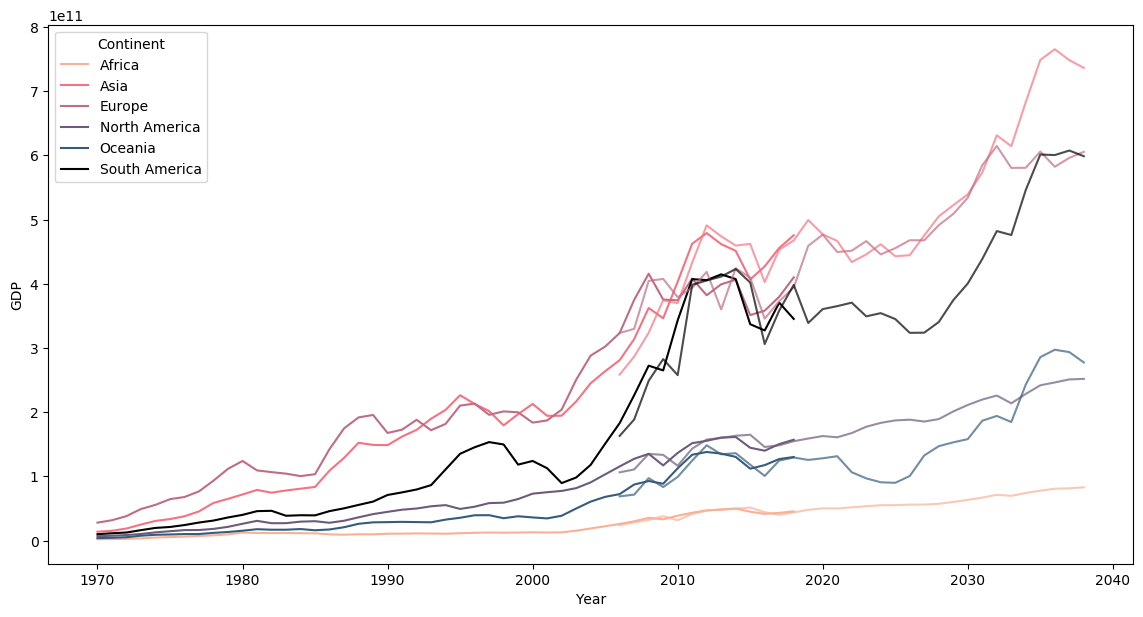
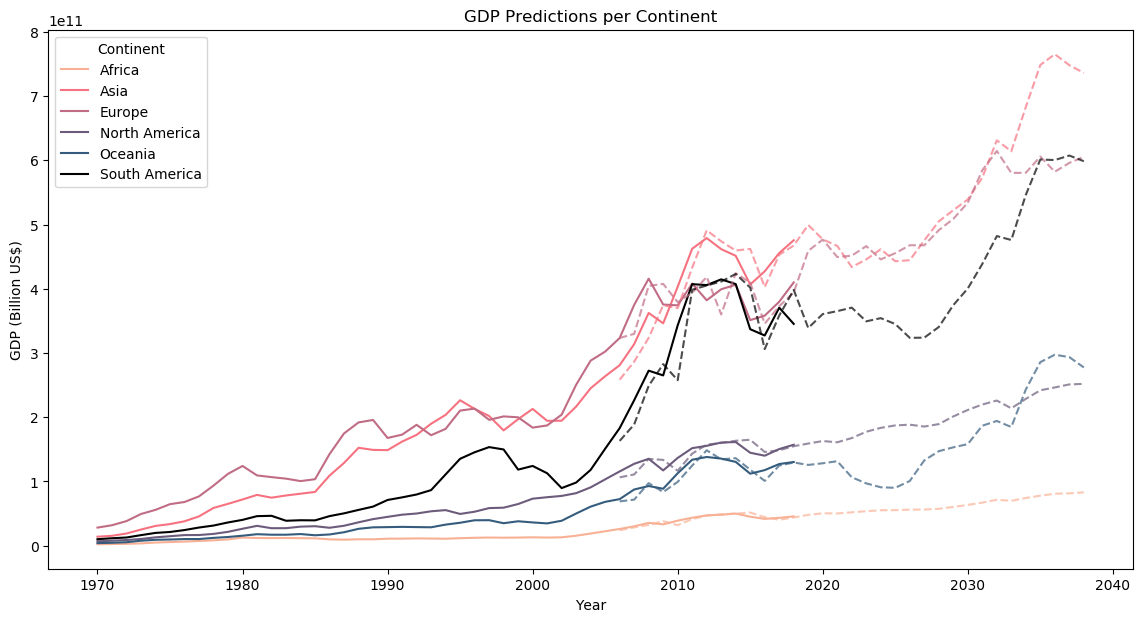
add predictions for disasters

diff --git a/predictions/predictions.py b/predictions/predictions.py
@@ -1,30 +1,27 @@
 import pandas as pd
-import matplotlib.pyplot as plt
 import statsmodels.api as sm
-import numpy as np
 import os, sys
 sys.path.append(os.path.dirname(os.path.dirname(os.path.abspath(__file__))))
-from utils import colors_pastel, colors_blue
+from visualizations.graphs import plot_prediction_line_graph, stacked_bar_graph_prediction
 
-def autoregressive_integrated_moving_average(data, xlabel, ylabel, filename = 'predictions.png', title='Title'):
+def autoregressive_integrated_moving_average(data, steps=20, seasonal_order = None):
     '''this method plots predictions for a dataframe with years as columns and countries or continents as rows
     input: pandas dataframe
-    xlabel, ylabel: str axis labels
-    optional filename: str
-    saves figure
-    returns None'''
+    returns dataframe with predictions'''
     assert (isinstance(data, pd.DataFrame))
-    assert(isinstance(xlabel, str) and isinstance(ylabel, str) and isinstance(filename, str) and isinstance(title, str))
     preds = []
     data.index.name = 'Year'
     start_year = int(min(list(data.index)))
     for column_name in data:
         #prediction
-        mod = sm.tsa.statespace.SARIMAX(data[column_name], order=(1, 1, 1), seasonal_order=(1, 1, 0, 12), enforce_stationarity=False, enforce_invertibility=False)
+        if seasonal_order != None:
+            mod = sm.tsa.statespace.SARIMAX(data[column_name], order=(1, 1, 1), seasonal_order=seasonal_order, enforce_stationarity=False, enforce_invertibility=False)
+        else:
+            mod = sm.tsa.statespace.SARIMAX(data[column_name], order=(1, 1, 1), enforce_stationarity=False, enforce_invertibility=False)
         results = mod.fit()
         start = int(len(data)/4) * 3 #start predicting after 3/4 of the data
         pred = results.get_prediction(start=start, dynamic=False)
-        forecast = results.get_forecast(steps=20).predicted_mean
+        forecast = results.get_forecast(steps=steps).predicted_mean
         pred = pred.predicted_mean.append(forecast)
 
         #format predictions for plotting
@@ -43,29 +40,23 @@ def autoregressive_integrated_moving_average(data, xlabel, ylabel, filename = 'p
     data.index = data.index + start_year
     pred_df = pred_df.reset_index()
     pred_df.index = pred_df.index + start_year + start
-
-    #set up the plot
-    ax = data.plot(label='Observed', color=colors_pastel)
-    pred_df.plot(ax = ax, label='Forecast', alpha=.7, figsize=(14, 7), color=colors_pastel, legend=False, linestyle='--')
-    ax.set_xlabel(xlabel)
-    ax.set_ylabel(ylabel)
-    plt.title(title)
-    plt.savefig(filename, bbox_inches='tight')
-
-
-def stacked_bar_graph_prediction(data, filename="stacked_bar_graph.png", title='title', ylabel="Amount"):
-    assert(isinstance(data, pd.DataFrame))
-    assert(isinstance(filename, str) and isinstance(title, str))
-
-    ax =  data.plot(kind='bar', stacked=True, color=colors_pastel, rot=70, title=title)
-    ax.set_ylabel(ylabel)
-    plt.savefig(filename, bbox_inches='tight')
+    return data, pred_df
 
 
 if __name__ == "__main__":
-    #csv = pd.read_csv('./visualizations/test/avg_gdp_continents.csv', index_col=0)
-    #autoregressive_integrated_moving_average(csv.T, 'Year', 'GDP (Billion US$)', 'predictions.png', 'GDP Predictions per Continent')
-
+    csv = pd.read_csv('./visualizations/test/avg_gdp_continents.csv', index_col=0)
+    data, pred_df = autoregressive_integrated_moving_average(csv.T, steps = 20, seasonal_order=(1, 1, 0, 12))
+    plot_prediction_line_graph(data, pred_df, 'Year', 'GDP (Billion US$)', 'GDP Predictions per Continent', 'predictions.png')
     csv = pd.read_csv('./data/environmental/cleaned_data/cleaned_number-of-natural-disaster-events.csv', index_col=0)
+    csv = csv.reset_index()
+    csv = csv.drop(columns=['decade'])
     csv = csv.drop(columns=['All natural disasters'])
-    stacked_bar_graph_prediction(csv, filename="stacked_bar_graph_disasters.png", title="Natural Disasters from 1900-2020", ylabel="Number of Incidents")
+    number_of_predictions = 3
+    data, pred_df = autoregressive_integrated_moving_average(csv, steps = number_of_predictions)
+    data = data.set_index('Year')
+    pred_df = pred_df.set_index('Year')
+    all_data = data.append(pred_df.tail(number_of_predictions))
+    years_labels = ['1900-1910', '1910-1920', '1920-1930', '1930-1940', '1940-1950', '1950-1960', '1960-1970', '1970-1980', '1980-1990', '1990-2000', '2000-2010', '2010-2020', '2020-2030', '2030-2040', '2040-2050']
+    all_data['labels'] = years_labels
+    all_data = all_data.set_index('labels')
+    stacked_bar_graph_prediction(all_data, filename="stacked_bar_graph_disasters.png", title="Natural Disasters from 1900-2020", ylabel="Number of Incidents")

diff --git a/visualizations/graphs.py b/visualizations/graphs.py
@@ -1,0 +1,28 @@
+import matplotlib.pyplot as plt
+import os, sys
+sys.path.append(os.path.dirname(os.path.dirname(os.path.abspath(__file__))))
+from utils import colors_pastel
+
+def plot_prediction_line_graph(data, pred_df, xlabel, ylabel, title, filename):
+    '''xlabel, ylabel: str axis labels
+    optional filename: str
+    saves figure
+    returns None'''
+    assert(isinstance(xlabel, str) and isinstance(ylabel, str) and isinstance(filename, str) and isinstance(title, str))
+
+    #set up the plot
+    ax = data.plot(label='Observed', color=colors_pastel)
+    pred_df.plot(ax = ax, label='Forecast', alpha=.7, figsize=(14, 7), color=colors_pastel, legend=False, linestyle='--')
+    ax.set_xlabel(xlabel)
+    ax.set_ylabel(ylabel)
+    plt.title(title)
+    plt.savefig(filename, bbox_inches='tight')
+
+
+def stacked_bar_graph_prediction(data, filename="stacked_bar_graph.png", title='title', ylabel="Amount"):
+    assert(isinstance(data, pd.DataFrame))
+    assert(isinstance(filename, str) and isinstance(title, str))
+
+    ax =  data.plot(kind='bar', stacked=True, color=colors_pastel, rot=70, title=title)
+    ax.set_ylabel(ylabel)
+    plt.savefig(filename, bbox_inches='tight')
